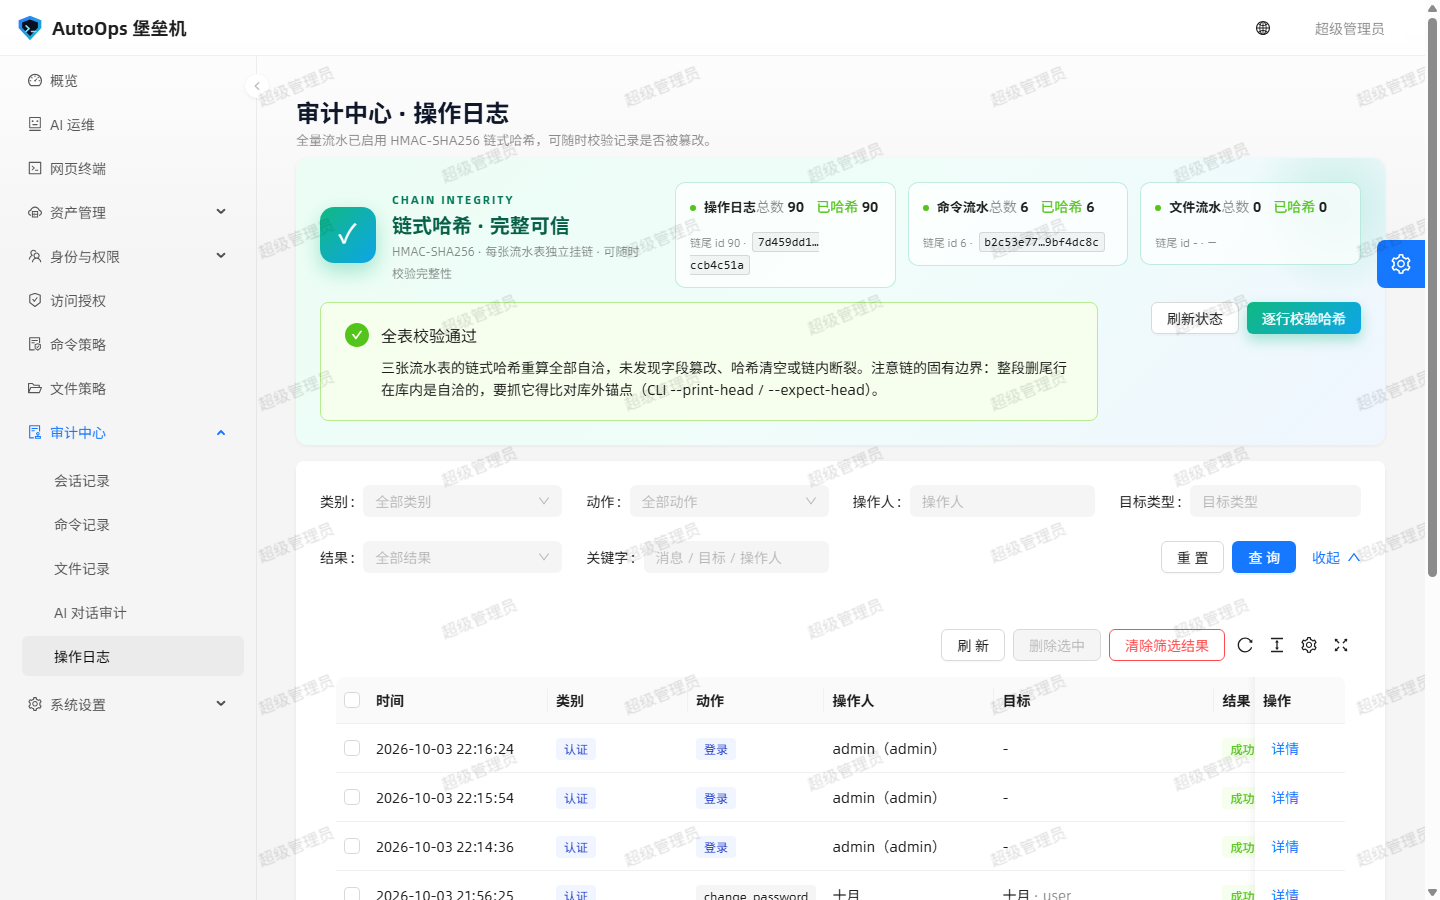
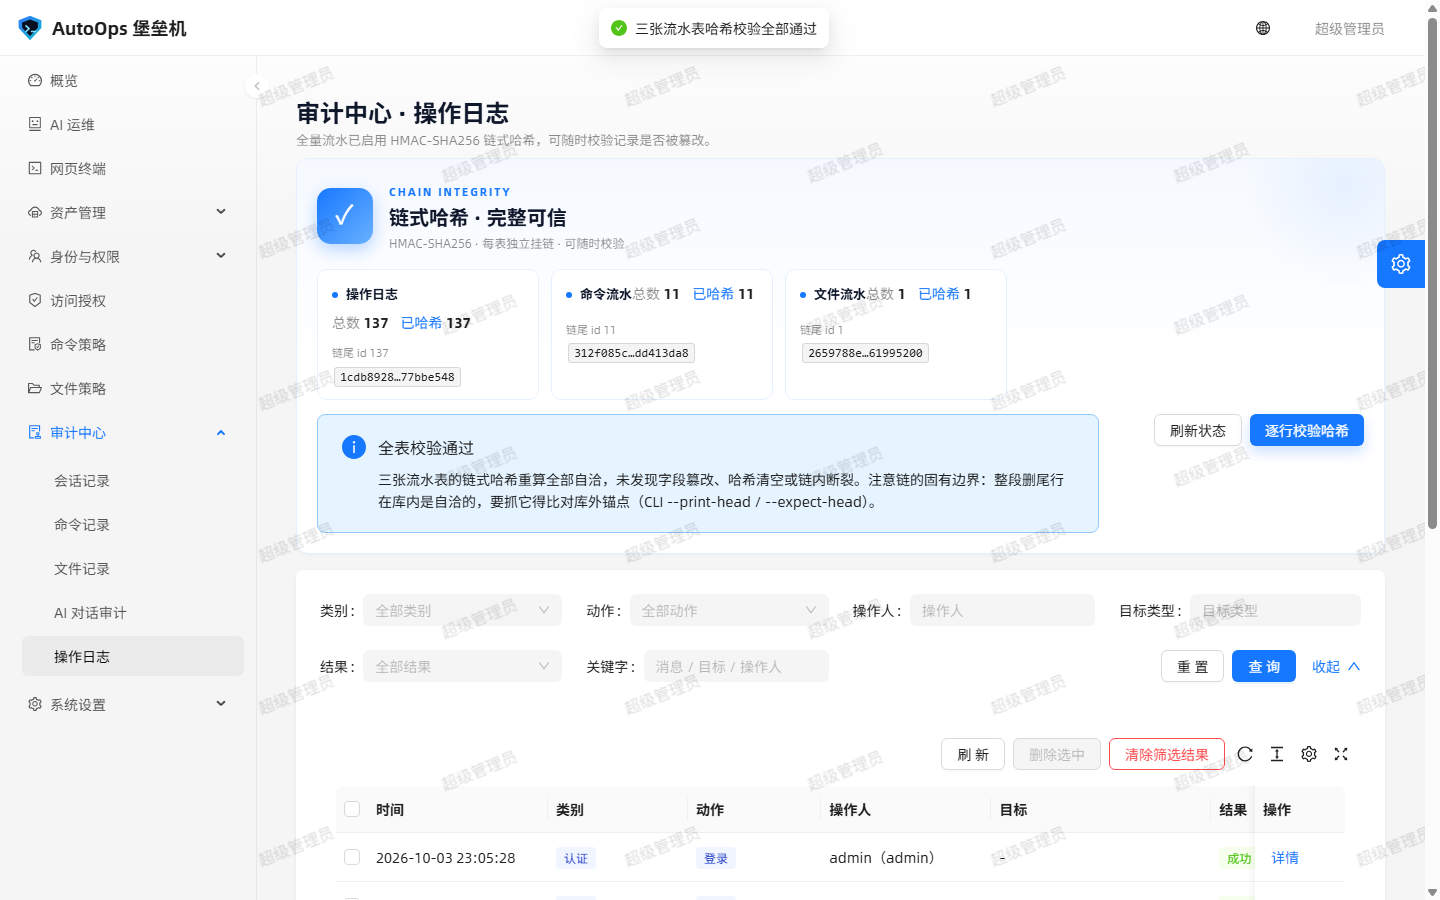
style(audit): 链完整性徽标与详情抽屉统一蓝白配色
徽标卡片：绿/青渐变 → 白底 + #e6f0ff 描边 + 淡蓝渐变头（右上光斑改蓝 #1677ff 低透明度）

印章方块 #10b981→#0ea5e9 改 #1677ff→#69b1ff；CHAIN INTEGRITY/标题改蓝与墨蓝

三块统计：白底 + #e6f0ff 描边、等高（height:100%）、Badge 改 status=processing（蓝）、已哈希数字蓝 #1677ff；链内空洞仍红 #cf1322、部分哈希仍琥珀 #d48806

通过告警 success→info（蓝）；主按钮去掉绿→蓝渐变，改纯蓝 + 蓝阴影

详情抽屉：「🔗 链式哈希」去 emoji、卡片改 #f7faff + #e6f0ff 描边、HMAC-SHA256 tag → blue

微调：副标题收一行、链尾 id 与哈希拆两行不再折半

口令：状态色不为好看牺牲语义——异常/危险仍红、未哈希遗留仍琥珀

门禁：tsc 0 · biome 0 · build 0 · ui_check 21/21 · console_check 33/33；截图实拍更新 docs/screenshots/audit-chain-badge.png 并新增 audit-chain-detail.png

diff --git a/ant-design-pro/src/pages/bastion/audits/index.tsx b/ant-design-pro/src/pages/bastion/audits/index.tsx
@@ -224,17 +224,17 @@ const ChainBadge: React.FC<{
     <Card
       bordered={false}
       style={{
-        boxShadow: '0 1px 4px rgba(15, 23, 42, 0.06)',
+        boxShadow: '0 1px 2px rgba(15, 23, 42, 0.04)',
         borderRadius: 12,
-        background: healthy
-          ? 'linear-gradient(135deg, #ecfdf5 0%, #f0fdfa 50%, #eff6ff 100%)'
-          : 'linear-gradient(135deg, #fef2f2 0%, #fff7ed 50%, #fff1f2 100%)',
+        border: '1px solid #e6f0ff',
+        background:
+          'linear-gradient(180deg, #f5f9ff 0%, #ffffff 52%, #ffffff 100%)',
         marginBottom: 16,
         overflow: 'hidden',
       }}
       styles={{
         body: {
-          padding: xs ? 16 : 24,
+          padding: xs ? 16 : 20,
           position: 'relative' as const,
         },
       }}
@@ -242,14 +242,13 @@ const ChainBadge: React.FC<{
       <div
         style={{
           position: 'absolute',
-          right: -40,
-          top: -40,
-          width: 180,
-          height: 180,
+          right: -60,
+          top: -70,
+          width: 200,
+          height: 200,
           borderRadius: '50%',
-          background: healthy
-            ? 'radial-gradient(circle at center, rgba(16,185,129,0.18) 0%, rgba(16,185,129,0) 70%)'
-            : 'radial-gradient(circle at center, rgba(244,63,94,0.16) 0%, rgba(244,63,94,0) 70%)',
+          background:
+            'radial-gradient(circle at center, rgba(22, 119, 255, 0.07) 0%, rgba(22, 119, 255, 0) 70%)',
           pointerEvents: 'none',
         }}
       />
@@ -259,7 +258,7 @@ const ChainBadge: React.FC<{
         justify="space-between"
         style={{ position: 'relative' }}
       >
-        <Col xs={24} md={10} lg={8}>
+        <Col xs={24} md={10} lg={9}>
           <Space size={16} align="center">
             <div
               style={{
@@ -270,11 +269,11 @@ const ChainBadge: React.FC<{
                 alignItems: 'center',
                 justifyContent: 'center',
                 background: healthy
-                  ? 'linear-gradient(135deg, #10b981 0%, #0ea5e9 100%)'
-                  : 'linear-gradient(135deg, #f43f5e 0%, #f97316 100%)',
+                  ? 'linear-gradient(135deg, #1677ff 0%, #69b1ff 100%)'
+                  : 'linear-gradient(135deg, #ff4d4f 0%, #ff7875 100%)',
                 boxShadow: healthy
-                  ? '0 8px 20px rgba(16,185,129,0.35)'
-                  : '0 8px 20px rgba(244,63,94,0.32)',
+                  ? '0 6px 16px rgba(22, 119, 255, 0.28)'
+                  : '0 6px 16px rgba(255, 77, 79, 0.24)',
                 color: '#fff',
                 fontSize: 26,
                 fontFamily:
@@ -289,7 +288,7 @@ const ChainBadge: React.FC<{
                 style={{
                   fontSize: 11,
                   letterSpacing: 2,
-                  color: healthy ? '#047857' : '#be123c',
+                  color: healthy ? '#1677ff' : '#cf1322',
                   fontWeight: 600,
                 }}
               >
@@ -299,14 +298,14 @@ const ChainBadge: React.FC<{
                 level={4}
                 style={{
                   margin: '2px 0 0 0',
-                  color: healthy ? '#065f46' : '#881337',
+                  color: healthy ? '#0f172a' : '#cf1322',
                   fontWeight: 700,
                 }}
               >
                 {healthy ? '链式哈希 · 完整可信' : '链式哈希 · 存在异常'}
               </Title>
               <Text type="secondary" style={{ fontSize: 12 }}>
-                HMAC-SHA256 · 每张流水表独立挂链 · 可随时校验完整性
+                HMAC-SHA256 · 每表独立挂链 · 可随时校验
               </Text>
             </div>
           </Space>
@@ -335,17 +334,13 @@ const ChainBadge: React.FC<{
                       <Col xs={24} sm={8} key={key}>
                         <div
                           style={{
+                            height: '100%',
                             padding: '12px 14px',
                             borderRadius: 10,
-                            background: ok
-                              ? 'rgba(255,255,255,0.7)'
-                              : 'rgba(255,255,255,0.9)',
+                            background: '#ffffff',
                             border: `1px solid ${
-                              ok
-                                ? 'rgba(16,185,129,0.25)'
-                                : 'rgba(244,63,94,0.25)'
+                              ok ? '#e6f0ff' : 'rgba(255, 77, 79, 0.28)'
                             }`,
-                            backdropFilter: 'blur(6px)',
                           }}
                         >
                           <Space
@@ -354,9 +349,12 @@ const ChainBadge: React.FC<{
                             style={{ marginBottom: 6 }}
                           >
                             <Badge
-                              status={ok ? 'success' : 'error'}
+                              status={ok ? 'processing' : 'error'}
                               text={
-                                <Text strong style={{ fontSize: 13 }}>
+                                <Text
+                                  strong
+                                  style={{ fontSize: 13, color: '#0f172a' }}
+                                >
                                   {TABLE_LABEL[key]}
                                 </Text>
                               }
@@ -371,13 +369,14 @@ const ChainBadge: React.FC<{
                               总数 <Text strong>{c.total}</Text>
                             </Text>
                             <Text
-                              type={
-                                pendingInside > 0
-                                  ? 'danger'
-                                  : c.hashed === c.total
-                                    ? 'success'
-                                    : 'warning'
-                              }
+                              style={{
+                                color:
+                                  pendingInside > 0
+                                    ? '#cf1322'
+                                    : c.hashed === c.total
+                                      ? '#1677ff'
+                                      : '#d48806',
+                              }}
                             >
                               已哈希{' '}
                               <Text strong>
@@ -395,11 +394,13 @@ const ChainBadge: React.FC<{
                           </Space>
                           <div style={{ marginTop: 6 }}>
                             <Text type="secondary" style={{ fontSize: 11 }}>
-                              链尾 id {h.lastId ?? '-'} ·{' '}
+                              链尾 id {h.lastId ?? '-'}
                             </Text>
-                            <HashCell
-                              value={h.verifiedHead ?? h.lastEntryHash}
-                            />
+                            <div style={{ marginTop: 2 }}>
+                              <HashCell
+                                value={h.verifiedHead ?? h.lastEntryHash}
+                              />
+                            </div>
                           </div>
                         </div>
                       </Col>
@@ -455,7 +456,7 @@ const ChainBadge: React.FC<{
           {verify?.ok && !verifyErrors ? (
             <Alert
               showIcon
-              type="success"
+              type="info"
               message="全表校验通过"
               description="三张流水表的链式哈希重算全部自洽，未发现字段篡改、哈希清空或链内断裂。注意链的固有边界：整段删尾行在库内是自洽的，要抓它得比对库外锚点（CLI --print-head / --expect-head）。"
             />
@@ -471,13 +472,8 @@ const ChainBadge: React.FC<{
               onClick={onVerify}
               loading={verifying}
               style={{
-                background: healthy
-                  ? 'linear-gradient(135deg, #10b981 0%, #0ea5e9 100%)'
-                  : 'linear-gradient(135deg, #f43f5e 0%, #f97316 100%)',
                 border: 'none',
-                boxShadow: healthy
-                  ? '0 6px 14px rgba(16,185,129,0.35)'
-                  : '0 6px 14px rgba(244,63,94,0.32)',
+                boxShadow: '0 6px 14px rgba(22, 119, 255, 0.22)',
               }}
             >
               逐行校验哈希
@@ -961,17 +957,17 @@ const AuditsPage: React.FC = () => {
               orientationMargin={0}
             >
               <Text strong style={{ fontSize: 13 }}>
-                🔗 链式哈希
+                链式哈希
               </Text>
             </Divider>
 
             <Card
               size="small"
-              bordered
+              bordered={false}
               style={{
                 borderRadius: 10,
-                background:
-                  'linear-gradient(135deg, #f8fafc 0%, #f1f5f9 100%)',
+                border: '1px solid #e6f0ff',
+                background: '#f7faff',
               }}
               styles={{ body: { padding: '14px 16px' } }}
             >
@@ -1021,7 +1017,7 @@ const AuditsPage: React.FC = () => {
                       </Tag>
                     ) : (
                       <Tag
-                        color="success"
+                        color="blue"
                         style={{ marginLeft: 8, borderRadius: 4 }}
                       >
                         HMAC-SHA256
